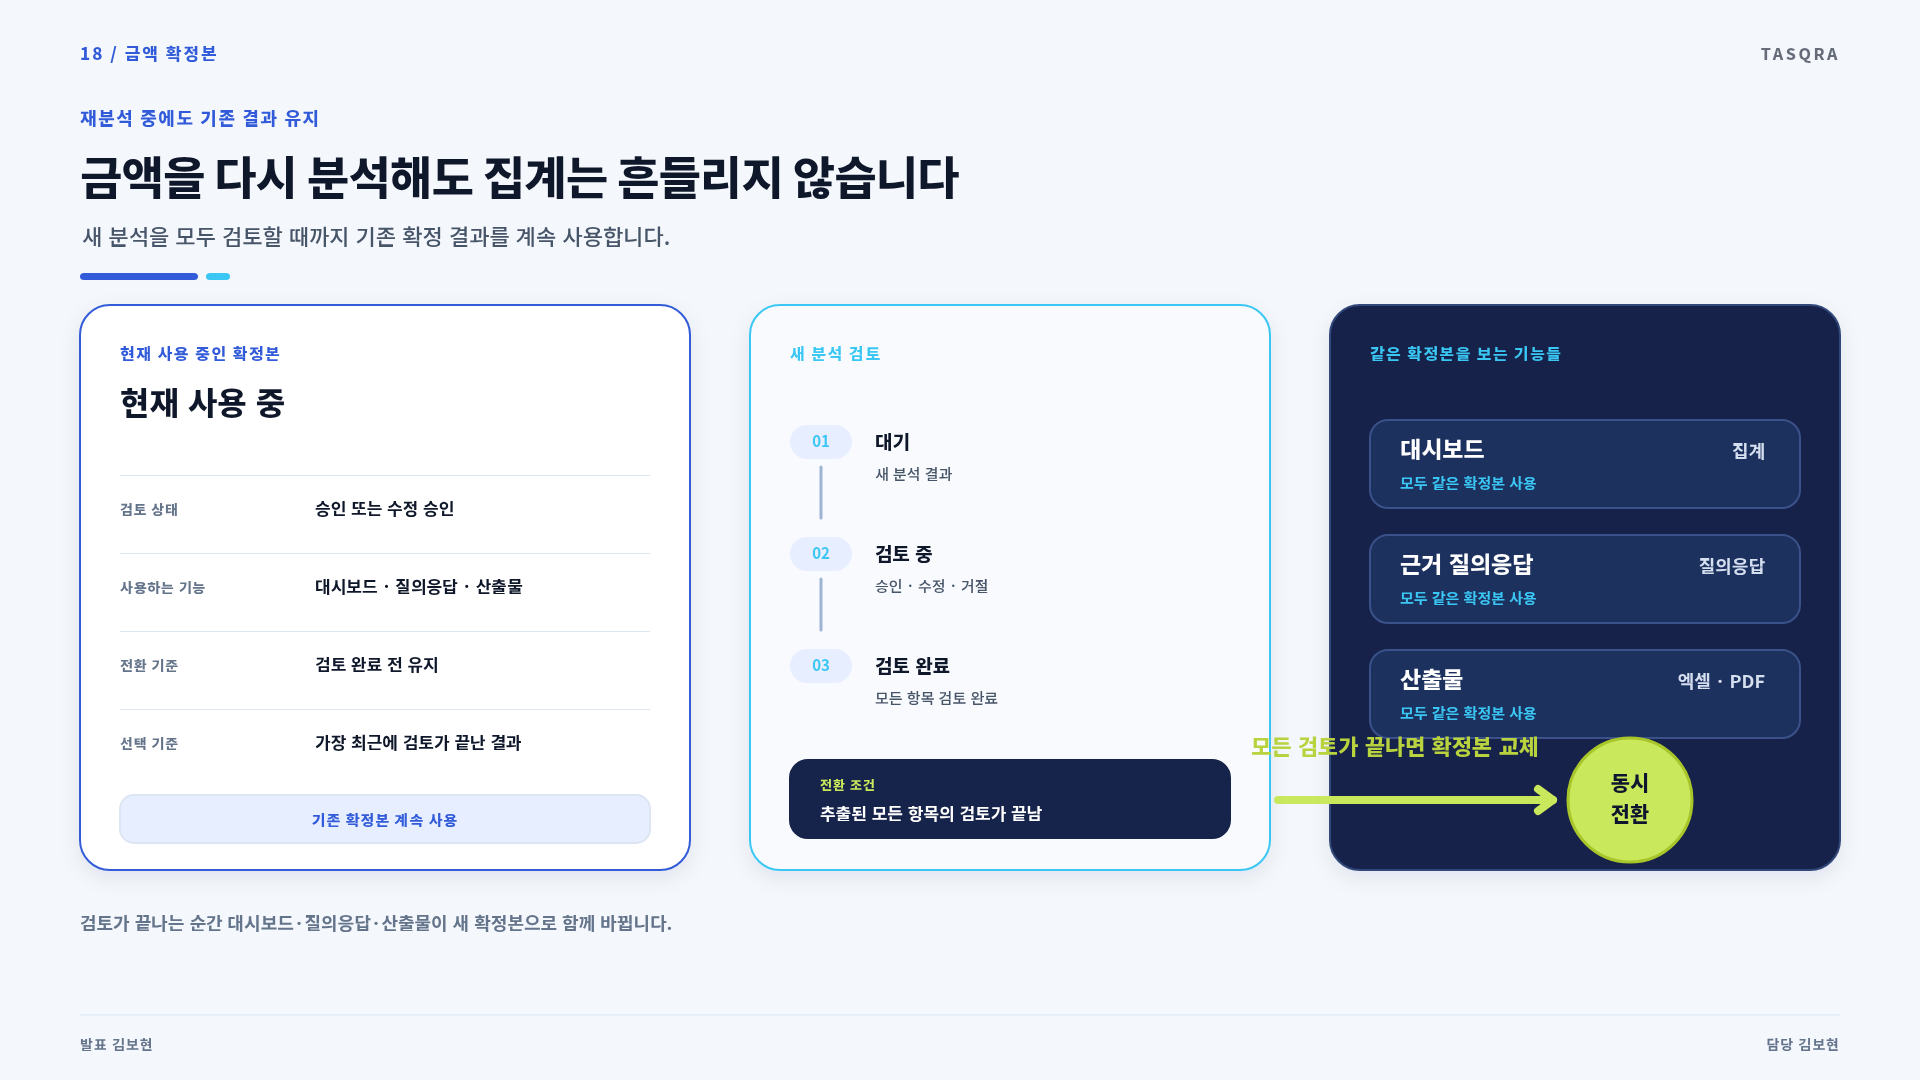
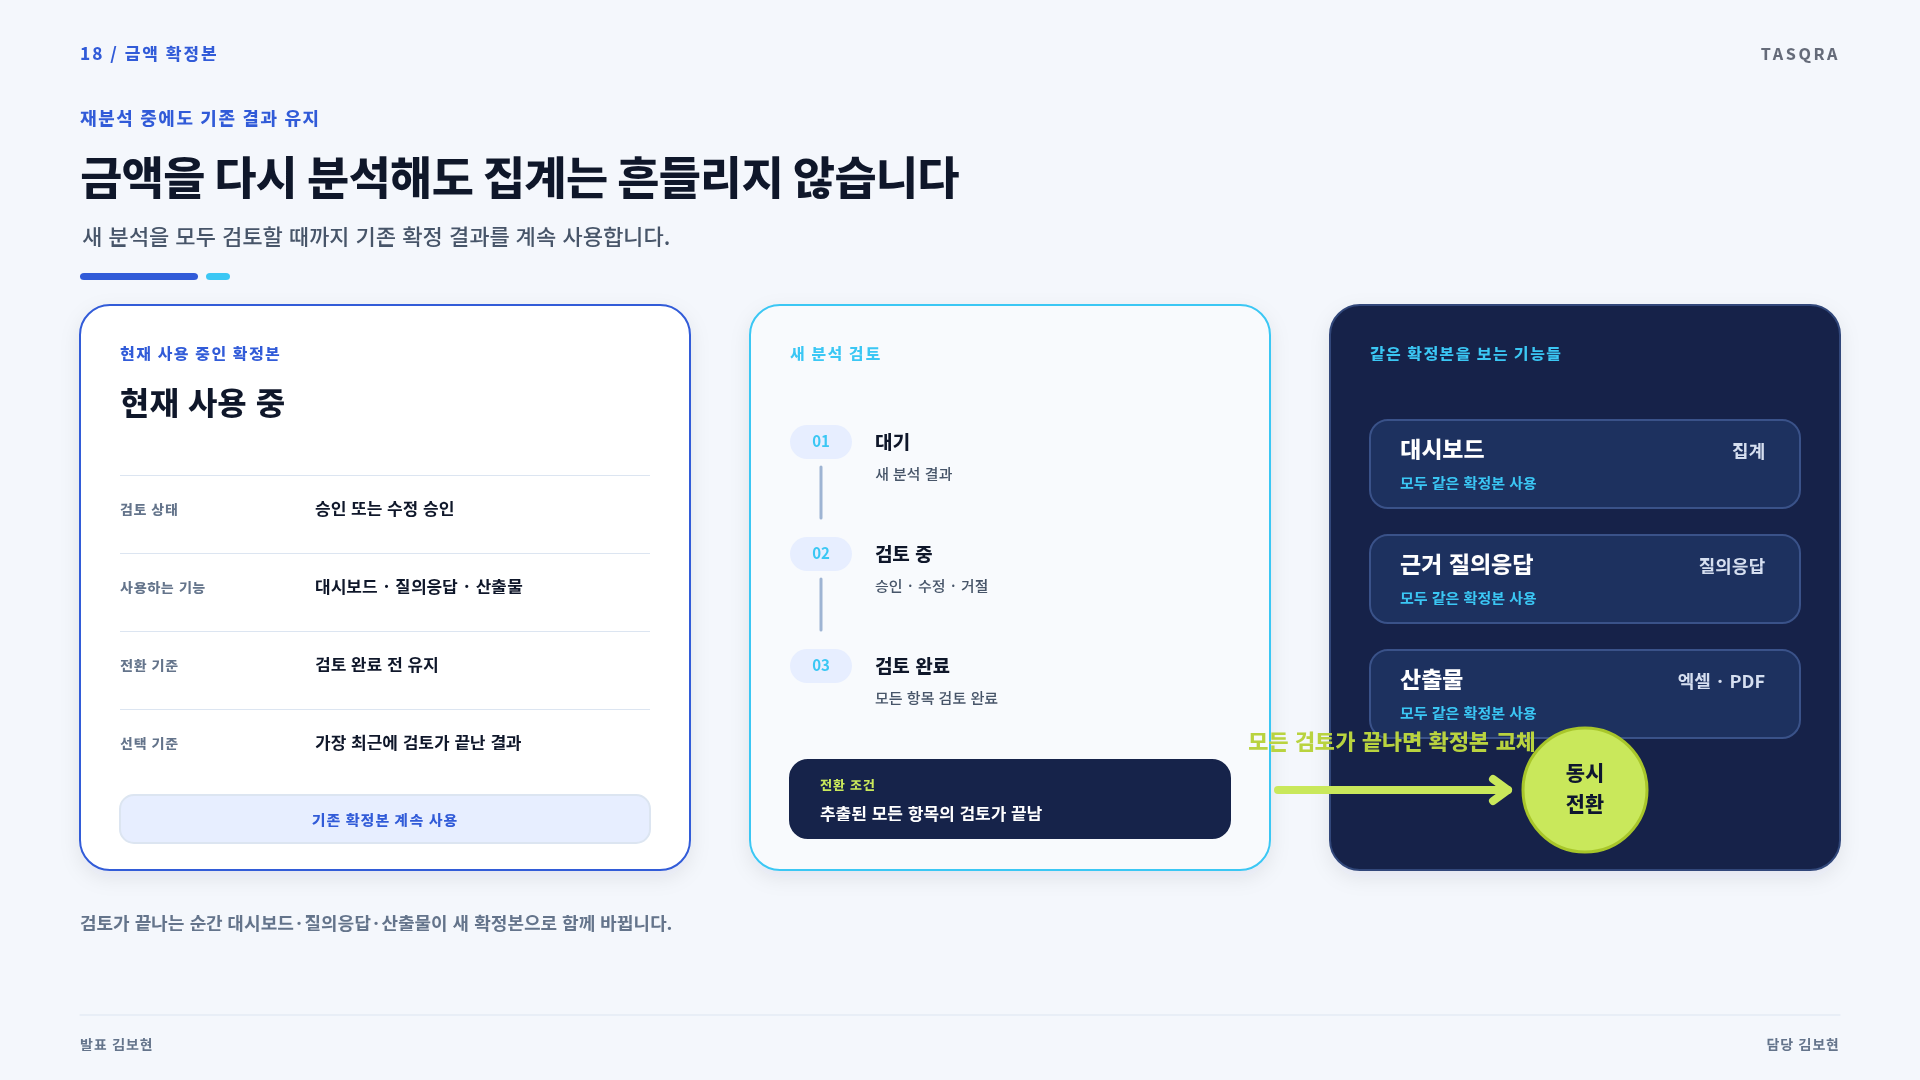
docs: 발표 흐름 카드 크기와 정렬 보정

Changed region(s): [[0.6562, 0.6722, 0.9062, 0.7944]]

diff --git a/도구/pptx/build_final_presentation_29.py b/도구/pptx/build_final_presentation_29.py
@@ -186,27 +186,27 @@ def slide6():
     p.append(arrow(380, 575, 380, 610, C["blue"], 5))
     p.append(arrow(1080, 575, 1080, 610, C["cyan"], 5))
 
-    p.append(panel(110, 620, 540, 315, fill=C["panel"], stroke=C["blue"], rx=24, shadow=True))
-    p.append(pill(140, 645, 185, 38, "바로 끝나는 요청", C["soft_blue"], C["blue"], size=15))
-    p.append(panel(165, 705, 430, 66, fill="#F8FAFD", stroke=C["blue2"], rx=16, shadow=False))
-    p.append(text(190, 746, "SQLAlchemy  ·  트랜잭션과 데이터 접근", 18, 800, C["text"]))
-    p.append(arrow(380, 777, 380, 805, "#8EA4CC", 4))
-    p.append(panel(165, 815, 430, 66, fill="#F8FAFD", stroke=C["lime"], rx=16, shadow=False))
-    p.append(text(190, 856, "PostgreSQL  ·  업무 데이터와 pgvector", 18, 800, C["text"]))
+    p.append(panel(140, 620, 480, 310, fill=C["panel"], stroke=C["blue"], rx=24, shadow=True))
+    p.append(pill(170, 645, 185, 38, "바로 끝나는 요청", C["soft_blue"], C["blue"], size=15))
+    p.append(panel(175, 700, 410, 62, fill="#F8FAFD", stroke=C["blue2"], rx=16, shadow=False))
+    p.append(text(200, 739, "SQLAlchemy  ·  트랜잭션과 데이터 접근", 17, 800, C["text"]))
+    p.append(arrow(380, 768, 380, 797, "#8EA4CC", 4))
+    p.append(panel(175, 805, 410, 62, fill="#F8FAFD", stroke=C["lime"], rx=16, shadow=False))
+    p.append(text(200, 844, "PostgreSQL  ·  업무 데이터와 pgvector", 17, 800, C["text"]))
 
-    p.append(panel(810, 620, 540, 315, fill=C["navy"], stroke=C["cyan"], rx=24, shadow=True))
-    p.append(pill(840, 645, 190, 38, "오래 걸리는 작업", "#243866", C["cyan"], size=15))
+    p.append(panel(840, 620, 480, 310, fill=C["navy"], stroke=C["cyan"], rx=24, shadow=True))
+    p.append(pill(870, 645, 190, 38, "오래 걸리는 작업", "#243866", C["cyan"], size=15))
     async_nodes = [
-        (700, "Redis 대기열", "작업 등록 · 중단되어도 유지"),
-        (770, "Celery Worker", "OCR · 문서 나누기 · AI 분석"),
-        (840, "공유 자원", "PostgreSQL · 문서 파일 · AI 모델"),
+        (692, "Redis 대기열", "작업 등록 · 중단되어도 유지"),
+        (782, "Celery Worker", "OCR · 문서 나누기 · AI 분석"),
+        (872, "공유 자원", "PostgreSQL · 문서 파일 · AI 모델"),
     ]
     for y, heading, body in async_nodes:
-        p.append(panel(850, y, 460, 58, fill="#1D315F", stroke="#3A5289" if heading != "공유 자원" else C["lime"], rx=14, shadow=False))
-        p.append(text(875, y + 25, heading, 17, 800, "#FFFFFF"))
-        p.append(text(1285, y + 25, body, 14, 600, "#C8D4EC", anchor="end"))
-        if y < 840:
-            p.append(arrow(1080, y + 61, 1080, y + 67, "#6F89BF", 3))
+        p.append(panel(875, y, 410, 48, fill="#1D315F", stroke="#3A5289" if heading != "공유 자원" else C["lime"], rx=13, shadow=False))
+        p.append(text(895, y + 30, heading, 16, 800, "#FFFFFF"))
+        p.append(text(1265, y + 30, body, 13, 600, "#C8D4EC", anchor="end"))
+        if y < 872:
+            p.append(arrow(1080, y + 55, 1080, y + 83, "#6F89BF", 4))
 
     # 선택 이유는 오른쪽 보조 열로 축소해 흐름보다 먼저 보이지 않게 한다.
     p.append(panel(1430, 300, 410, 650, fill=C["panel"], stroke=C["border"], rx=28, shadow=True))
@@ -346,9 +346,10 @@ def slide10():
     )
 
     # 두 검색은 강점보다 '각자 무엇을 놓치는가'를 먼저 보여 준다.
+    card_w = 590
     search_cards = [
         (
-            80,
+            100,
             "A",
             "키워드 검색",
             "정확한 글자에 강함",
@@ -358,7 +359,7 @@ def slide10():
             "document",
         ),
         (
-            1160,
+            1230,
             "B",
             "의미 검색",
             "표현이 달라도 뜻을 찾음",
@@ -369,24 +370,25 @@ def slide10():
         ),
     ]
     for x, no, heading, strength, body, miss, accent, kind in search_cards:
-        p.append(panel(x, 320, 680, 350, fill=C["navy"], stroke=accent, rx=28, shadow=True))
+        center_x = x + card_w / 2
+        p.append(panel(x, 330, card_w, 325, fill=C["navy"], stroke=accent, rx=28, shadow=True))
         p.append(number_badge(x + 30, 350, no, accent, dark=True))
-        p.append(circle(x + 605, 392, 38, "#24345F", stroke=accent, sw=2))
-        p.append(icon(kind, x + 605, 392, 34, accent, 3))
-        p.append(text(x + 340, 450, heading, 35, 800, "#FFFFFF", anchor="middle"))
-        p.append(text(x + 340, 500, strength, 18, 800, accent, anchor="middle", spacing=.3))
+        p.append(circle(x + card_w - 75, 392, 38, "#24345F", stroke=accent, sw=2))
+        p.append(icon(kind, x + card_w - 75, 392, 34, accent, 3))
+        p.append(text(center_x, 445, heading, 35, 800, "#FFFFFF", anchor="middle"))
+        p.append(text(center_x, 490, strength, 18, 800, accent, anchor="middle", spacing=.3))
         for line_no, value in enumerate(body):
-            p.append(text(x + 340, 548 + line_no * 31, value, 18, 600, "#C8D4EC", anchor="middle"))
-        p.append(panel(x + 30, 600, 620, 48, fill="#1D315F", stroke="#3A5289", rx=14, shadow=False))
-        p.append(text(x + 340, 631, miss, 15, 700, "#FFFFFF", anchor="middle"))
+            p.append(text(center_x, 535 + line_no * 31, value, 18, 600, "#C8D4EC", anchor="middle"))
+        p.append(panel(x + 30, 590, card_w - 60, 48, fill="#1D315F", stroke="#3A5289", rx=14, shadow=False))
+        p.append(text(center_x, 621, miss, 15, 700, "#FFFFFF", anchor="middle"))
 
     # 점수의 단위가 다르므로 가운데에서는 순위만 사용한다.
     p.append(circle(960, 495, 130, C["lime"], stroke="#A9C932", sw=4, extra='filter="url(#shadow)"'))
     p.append(text(960, 477, "RRF", 38, 800, C["rail"], anchor="middle"))
     p.append(text(960, 520, "순위만 합산", 18, 800, C["rail"], anchor="middle"))
     p.append(text(960, 551, "각 상위 30개", 14, 700, C["rail"], anchor="middle"))
-    p.append(arrow(770, 495, 815, 495, C["cyan"], 4))
-    p.append(arrow(1150, 495, 1105, 495, C["blue2"], 4))
+    p.append(arrow(700, 495, 815, 495, C["cyan"], 4))
+    p.append(arrow(1220, 495, 1105, 495, C["blue2"], 4))
 
     reasons = [
         (80, "점수를 그대로 더하지 않음", ("글자 유사도와 벡터 거리는", "단위·분포가 달라 직접 비교 불가"), C["blue"]),
@@ -580,10 +582,10 @@ def slide16():
         p.append(text(1400,y+38,head,23,800,"#FFFFFF"))
         p.append(text(1765,y+38,desc,18,700,"#D6DFF0",anchor="end"))
         p.append(text(1400,y+69,"모두 같은 확정본 사용",15,700,C["cyan"]))
-    p.append(circle(1630,800,62,C["lime"],stroke="#A8C62A",sw=3))
-    p.append(text(1630,791,"동시",21,800,C["rail"],anchor="middle"));p.append(text(1630,822,"전환",21,800,C["rail"],anchor="middle"))
-    p.append(arrow(1278,800,1553,800,C["lime"],8))
-    p.append(text(1395,755,"모든 검토가 끝나면 확정본 교체",22,800,"#B9D33F",anchor="middle"))
+    p.append(circle(1585,790,62,C["lime"],stroke="#A8C62A",sw=3))
+    p.append(text(1585,781,"동시",21,800,C["rail"],anchor="middle"));p.append(text(1585,812,"전환",21,800,C["rail"],anchor="middle"))
+    p.append(arrow(1278,790,1508,790,C["lime"],8))
+    p.append(text(1392,750,"모든 검토가 끝나면 확정본 교체",22,800,"#B9D33F",anchor="middle"))
     p.append(text(80,930,"재분석 중에도 기존 승인 데이터가 화면·QA·산출물에 계속 제공되며, 완료 순간에만 소비 기준이 한 번 바뀝니다.",18,700,C["muted"]))
     return finish(p)
 
